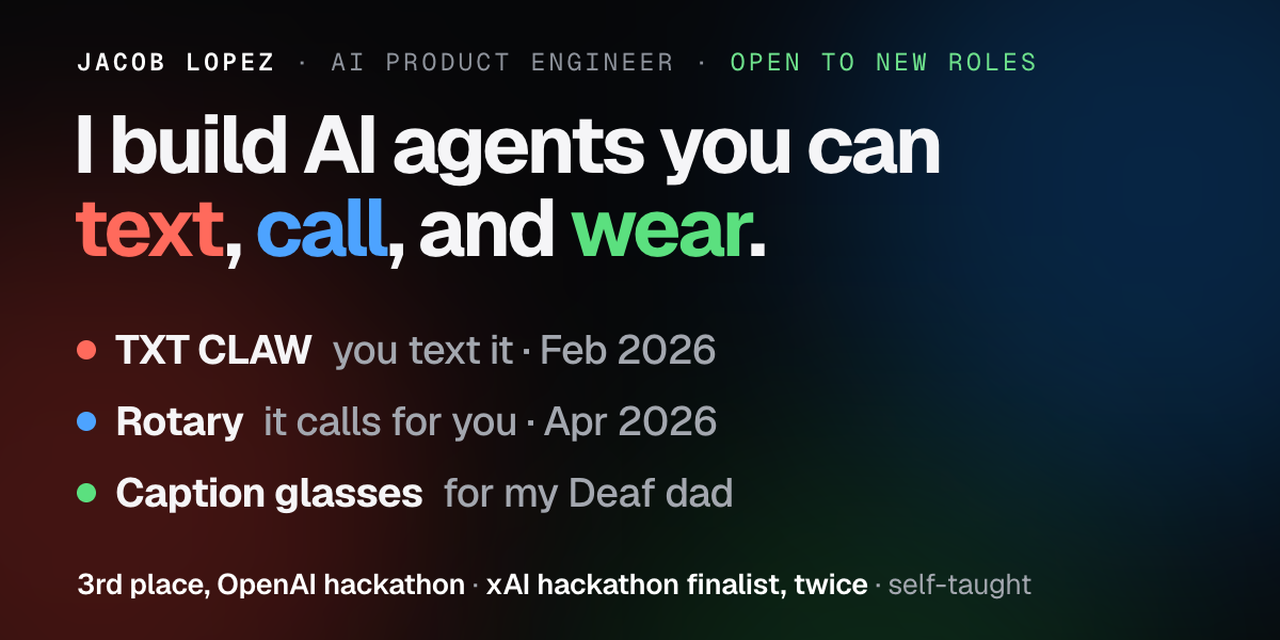
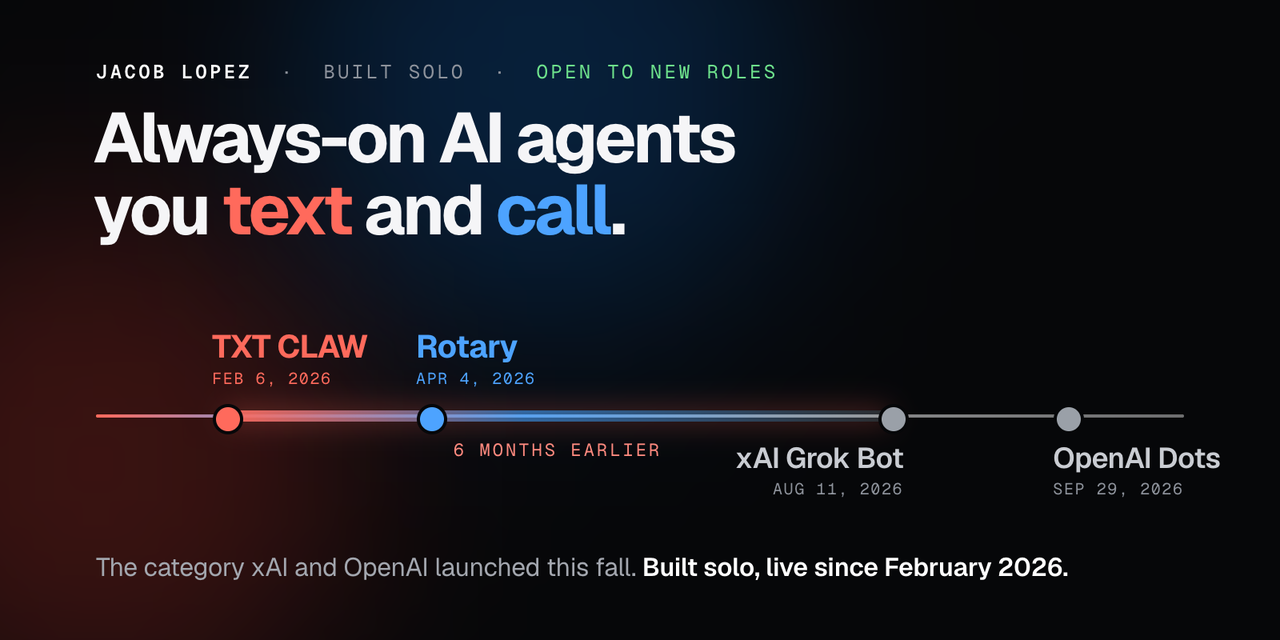
Lead with the timeline: what this is, and when, next to Grok Bot and Dots
A five-second banner opens the README: agents you text and call, with
TXT CLAW (Feb 6) and Rotary (Apr 4) on the same 2026 timeline as xAI's
Grok Bot (Aug 11) and OpenAI's Dots (Sep 29). The app GIF follows as
proof, the sourced comparison table is back, and the social preview
uses the same banner so the link reads at a glance in a message.

diff --git a/README.md b/README.md
@@ -1,25 +1,44 @@
 <p align="center">
-  <img src="media/rotary-story.gif" width="100%" alt="Rotary in 25 seconds. The old way: calling three businesses for a quote, on hold, crossed out. Instead you send one message ('Find a lawn service for tomorrow morning. Budget under $100.'), approve the plan, and your agent calls three businesses. You tap 'Cap the quote at $95' mid-call, and the best offer comes back: GreenEdge Landscaping at $85, down from $105, next to RapidLawn at $95 and Sunrise Yard Care at $110.">
+  <img src="media/signal.gif" width="100%" alt="Always-on AI agents you text and call. On a 2026 timeline: TXT CLAW on Feb 6 and Rotary on Apr 4, built solo by Jacob Lopez; then xAI's Grok Bot on Aug 11 and OpenAI's Dots on Sep 29. Six months earlier. The category xAI and OpenAI launched this fall, built solo and live since February 2026.">
 </p>
 
-<h1 align="center">Rotary and TXT CLAW</h1>
+<h1 align="center">TXT CLAW → Rotary</h1>
 
 <p align="center">
-  <b>AI agents you can text, and an iPhone app where your agent makes the phone call.</b><br>
-  Built solo by <a href="https://jacob.com.ai">Jacob Lopez</a>, February to April 2026. The real code and its original commit history are in this repo.
+  <b>Always-on AI agents you reach by text (TXT CLAW, Feb 2026), then an iPhone app where your agent makes the phone call (Rotary, Apr 2026).<br>Built solo, months before xAI's Grok Bot and OpenAI's Dots. Here's the app:</b>
+</p>
+
+<p align="center">
+  <img src="media/rotary-story.gif" width="100%" alt="Rotary in 25 seconds. The old way: calling three businesses for a quote, on hold, crossed out. Instead you send one message ('Find a lawn service for tomorrow morning. Budget under $100.'), approve the plan, and your agent calls three businesses. You tap 'Cap the quote at $95' mid-call, and the best offer comes back: GreenEdge Landscaping at $85, down from $105, next to RapidLawn at $95 and Sunrise Yard Care at $110.">
 </p>
 
 <p align="center">
   <a href="media/rotary-story-1080p.mp4"><b>Watch in 1080p</b></a> &nbsp;·&nbsp;
+  <a href="#how-it-compares">How it compares</a> &nbsp;·&nbsp;
   <a href="media/rotary-make-a-call-1080p.mp4">Full app walkthrough</a> &nbsp;·&nbsp;
-  <a href="#rotary--the-iphone-app">Rotary</a> &nbsp;·&nbsp;
-  <a href="#txt-claw--agents-you-text">TXT CLAW</a> &nbsp;·&nbsp;
   <a href="#architecture">Architecture</a> &nbsp;·&nbsp;
   <a href="EVIDENCE.md">Dated evidence</a> &nbsp;·&nbsp;
   <a href="https://jacob.com.ai">jacob.com.ai</a>
 </p>
 
-<sub>The app in both videos is rebuilt frame by frame from the SwiftUI source in <a href="rotary-ios/Rotary/Sources"><code>rotary-ios/</code></a>: the colors come from <code>Theme.swift</code>, and the screens, copy, and call come from <code>Features/Agents</code>. The call it plays is the app's built-in demo scenario, <a href="rotary-ios/Rotary/Sources/Features/Agents/AgentCallWorkflowScenario.swift"><code>AgentCallWorkflowScenario.swift</code></a>.</sub>
+<sub>The app in both videos is rebuilt frame by frame from the SwiftUI source in <a href="rotary-ios/Rotary/Sources"><code>rotary-ios/</code></a>, playing the app's built-in demo call (<a href="rotary-ios/Rotary/Sources/Features/Agents/AgentCallWorkflowScenario.swift"><code>AgentCallWorkflowScenario.swift</code></a>). Rotary itself is on TestFlight.</sub>
+
+---
+
+## How it compares
+
+In February 2026 I bet that the next interface for AI is an agent that never sleeps, has a computer of its own, and lives where people already talk: their texts and their phone calls. I built it alone, launched it, and kept going. xAI launched Grok Bot in August; OpenAI launched Dots in September.
+
+| | **TXT CLAW → Rotary** | **Grok Bot** (xAI) | **Dots** (OpenAI) |
+|---|---|---|---|
+| First shipped | **Feb 6, 2026** → Apr 4, 2026 | Aug 11, 2026 | Sep 29, 2026 |
+| Always on, keeps working while you're away | Yes | Yes | Yes |
+| A cloud computer of its own | A sandboxed container per user, on Cloudflare | One cloud computer your bots share | Its own cloud computer |
+| How you reach it | Text it over SMS or iMessage; native iPhone app | Desktop and iOS apps | ChatGPT, Slack, Teams; SMS "coming soon" |
+| Acts in the world | Browses, runs code, remembers; Rotary adds real phone calls you can steer mid-call | Signs into your tools and finishes multi-step jobs | Connects to 4,000+ apps |
+| Team | One person | xAI | OpenAI |
+
+<sub>Sources: <a href="https://www.unite.ai/xai-launches-grok-bot-always-on-ai-teammates-with-their-own-cloud-computers/">Unite.AI on Grok Bot (Aug 11, 2026)</a> · <a href="https://techcrunch.com/2026/09/29/openai-launches-dots-its-bubbly-agentic-avatar/">TechCrunch on Dots (Sep 29, 2026)</a> · <a href="https://9to5google.com/2026/09/29/openai-dots-agent/">9to5Google on Dots (Sep 29, 2026)</a>. My dates are the commits in this repo; see <a href="EVIDENCE.md">EVIDENCE.md</a>.</sub>
 
 ---
 
@@ -103,6 +122,8 @@ To build Rotary, add Twilio's `TwilioVoice.xcframework` 6.13.6 to `rotary-ios/Ve
 | Feb 28, 2026 | A2P 10DLC carrier compliance and blast-radius policy | [1759ef8](https://github.com/woodbeary/rotary/commit/1759ef8) |
 | Apr 4, 2026 | Rotary native iPhone app: 11 commits in one day | [c5a0561](https://github.com/woodbeary/rotary/commit/c5a0561) to [2b6c02d](https://github.com/woodbeary/rotary/commit/2b6c02d) |
 | Apr 10, 2026 | Rotary call workflow, steering, and offline updates | [0412685](https://github.com/woodbeary/rotary/commit/0412685) |
+| Aug 11, 2026 | xAI launches Grok Bot | [Unite.AI](https://www.unite.ai/xai-launches-grok-bot-always-on-ai-teammates-with-their-own-cloud-computers/) |
+| Sep 29, 2026 | OpenAI launches Dots at DevDay | [TechCrunch](https://techcrunch.com/2026/09/29/openai-launches-dots-its-bubbly-agentic-avatar/) |
 
 ## About me
 

diff --git a/EVIDENCE.md b/EVIDENCE.md
@@ -38,6 +38,13 @@ Launch reports written at the time: [go-live E2E checklist, Feb 11](txtclaw-web/
 | txtclaw #30 | 2026-02-17 04:20 | 2026-02-17 21:40 | Dev API portal: self-serve keys, docs, billing, E2E |
 | txtclaw #77 | 2026-02-27 20:03 | 2026-02-28 17:40 | A2P 10DLC remediation tracker and compliance alignment |
 
+## Launches compared
+
+| Date | Launch | Source |
+|---|---|---|
+| 2026-08-11 | xAI launches Grok Bot: always-on agents that share a cloud computer, on desktop and iOS | [Unite.AI](https://www.unite.ai/xai-launches-grok-bot-always-on-ai-teammates-with-their-own-cloud-computers/) |
+| 2026-09-29 | OpenAI launches Dots at DevDay: always-on agents with their own cloud computer, in ChatGPT, Slack, and Teams | [TechCrunch](https://techcrunch.com/2026/09/29/openai-launches-dots-its-bubbly-agentic-avatar/), [9to5Google](https://9to5google.com/2026/09/29/openai-dots-agent/) |
+
 ## What was removed before publishing
 
 API keys, team IDs, and a Twilio account ID were replaced with placeholders throughout the history. Private partnership notes, a unit-economics model, browser-automation logs, editor settings, Twilio's redistributable SDK binary, and the third-party brand mockups from the landing page's Apple Messages section were removed. Nothing else was changed, and every commit keeps its original author and date.
